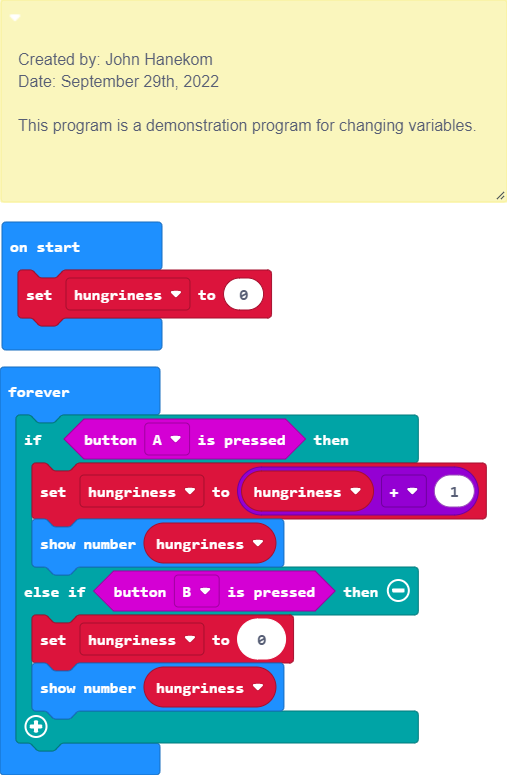
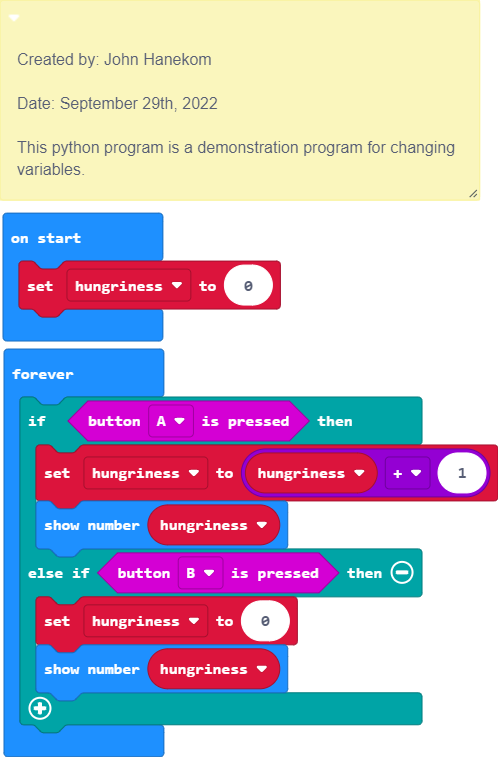
Fixed code

Changed region(s): [[0.0, 0.0, 1.0, 1.0]]

diff --git a/main.ts b/main.ts
@@ -3,7 +3,7 @@
  * 
  * Date: September 29th, 2022
  * 
- * This program is a demonstration program for changing variables.
+ * This python program is a demonstration program for changing variables.
  */
 let hungriness = 0
 basic.forever(function () {

diff --git a/main.py b/main.py
@@ -4,7 +4,7 @@ Created by: John Hanekom
 
 Date: September 29th, 2022
 
-This program is a demonstration program for changing variables.
+This python program is a demonstration program for changing variables.
 
 """
 hungriness = 0
